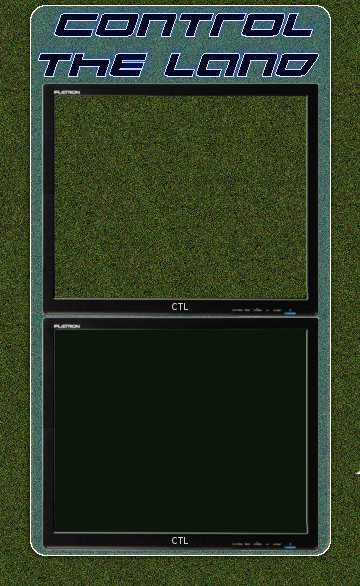
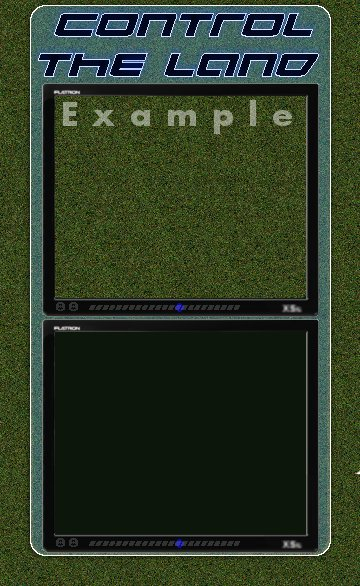
Tutorial cosmetics

diff --git a/src/com/btxtech/game/jsre/client/simulation/TutorialGui.java b/src/com/btxtech/game/jsre/client/simulation/TutorialGui.java
@@ -51,11 +51,11 @@ public class TutorialGui {
         GwtCommon.stopPropagation(absolutePanel);
 
         image = new AbsolutePanel();
-        absolutePanel.add(image, 54, 95);
+        absolutePanel.add(image, 56, 98);
         image.setPixelSize(250, 200);
         html = new HTML();
-        absolutePanel.add(html, 60, 330);
-        html.setPixelSize(250, 200);
+        absolutePanel.add(html, 60, 333);
+        html.setPixelSize(240, 200);
     }
 
     public void setTaskText(String text) {
